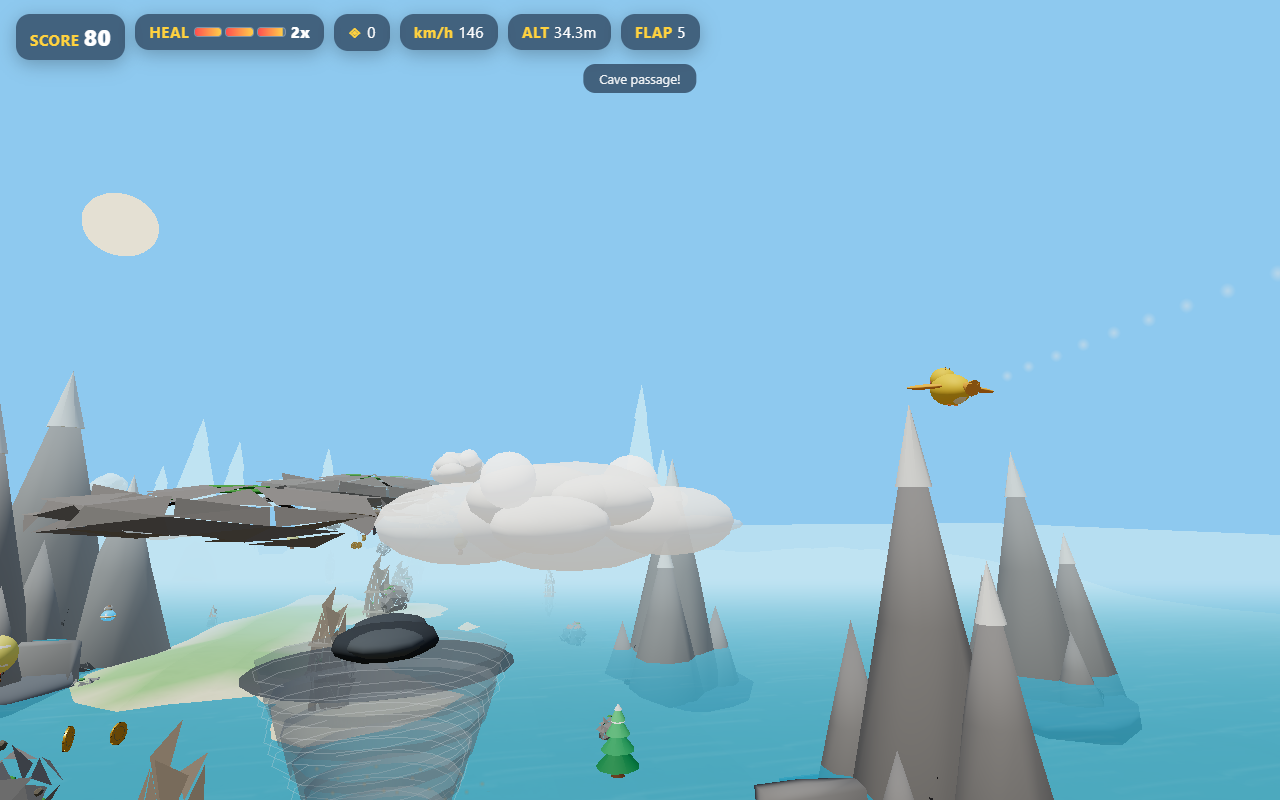
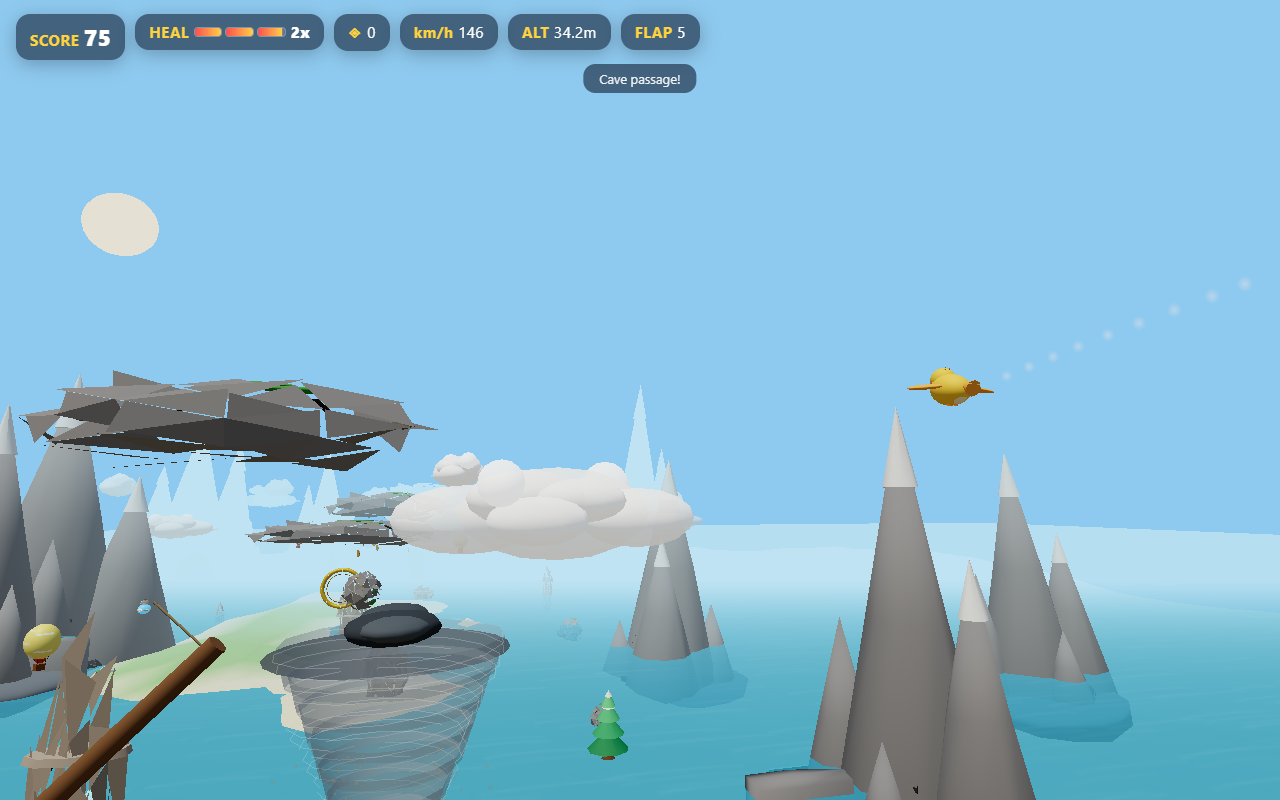
commit3

diff --git a/tests/test-speed-curve.js b/tests/test-speed-curve.js
@@ -1,0 +1,70 @@
+const puppeteer = require('puppeteer-core');
+
+const EDGE = 'C:\\Program Files (x86)\\Microsoft\\Edge\\Application\\msedge.exe';
+
+(async () => {
+  const browser = await puppeteer.launch({
+    executablePath: EDGE,
+    headless: 'new',
+    args: ['--window-size=1280,720', '--mute-audio', '--enable-unsafe-swiftshader'],
+  });
+  const page = await browser.newPage();
+  const errors = [];
+  page.on('pageerror', (e) => errors.push(String(e)));
+  page.on('console', (m) => { if (m.type() === 'error') errors.push(m.text()); });
+  await page.goto('http://localhost:8321/', { waitUntil: 'load', timeout: 60000 });
+  await page.waitForFunction(() => !!(window.__game && window.__game.player), { timeout: 60000 });
+  await page.keyboard.press('Space');
+  await new Promise((r) => setTimeout(r, 100));
+  await page.keyboard.press('Space');
+  await new Promise((r) => setTimeout(r, 100));
+
+  const result = await page.evaluate(() => {
+    try {
+      const g = window.__game;
+      g.noDeath = true;
+      g.boss.nextSpawnDistance = 1e9;
+      g.nextEnemyAt = g.nextTornadoAt = g.nextPotionAt = g.nextPortalAt = 1e9;
+
+      // simulate speed evolution over distance by applying the target directly
+      const samples = [];
+      const D = window.__speedProbe = null;
+      const C = g.constructor;
+      // step the same formula used in _applyDifficulty
+      const speedAt = (dist) => {
+        const c = window.__cfg; return c;
+      };
+      // read values from the running game by simulating distance jumps
+      const out = [];
+      g.startRun();
+      g.state = 2;
+      for (const dist of [0, 500, 2000, 4000, 8000, 16000, 40000]) {
+        g.distance = dist;
+        for (let i = 0; i < 400; i++) {
+          g._applyDifficulty();
+          // emulate fast-forward: speed damp toward target at 60fps steps
+        }
+        out.push({ dist, kmh: Math.round(g.speed * 3.6) });
+      }
+      return { curve: out, cfgMax: Math.round(window.__game ? 0 : 0), speedCfg: out };
+    } catch (e) {
+      return { err: String(e && e.stack || e) };
+    }
+  });
+
+  const curve = result.curve || [];
+  const kmh = curve.map((s) => s.kmh);
+  const checks = {
+    startsReasonable: kmh.length > 0 && kmh[0] >= 100 && kmh[0] <= 130,
+    growsSlowly: curve.length > 2,
+    saturatesNear250: kmh.length > 0 && kmh[kmh.length - 1] >= 247 && kmh[kmh.length - 1] <= 250,
+    neverExceeds250: kmh.every((v) => v <= 250),
+    monotonic: kmh.every((v, i) => i === 0 || v >= kmh[i - 1]),
+    noConsoleErrors: errors.length === 0,
+  };
+  for (const [name, ok] of Object.entries(checks)) console.log((ok ? 'PASS' : 'FAIL') + '  ' + name);
+  console.log(JSON.stringify(curve));
+  if (errors.length) console.log(errors.join('\n'));
+  await browser.close();
+  process.exit(Object.values(checks).every(Boolean) ? 0 : 1);
+})().catch((err) => { console.error(err); process.exit(1); });

diff --git a/src/boss.js b/src/boss.js
@@ -25,7 +25,7 @@ const FEATHER_SPEED = 28;
 const FEATHER_LIFE = 4.5;
 const FEATHER_HIT_SQ = 1.2 * 1.2;
 const MINION_SPEED = 20;
-const MINION_LIFE = 6;
+const MINION_LIFE = 26;
 const TUMBLE_TIME = 2.5;
 const TUMBLE_GRAV = 12;
 const KILL_Y = -8;
@@ -39,7 +39,7 @@ const EGG_FALL = 26;
 const SHOOTER_HOLD_Z = -22;
 const SHOOTER_FIRE_CD = 1.1;
 const BOMBER_DROP_CD = 1.1;
-const MAX_WAVES = 4;
+const SUMMON_CD_MIN = 4.2;
 const TYPE_SPEED = { chaser: 17, speeder: 30, shooter: 14, bomber: 22 };
 const BOLT_POOL_SIZE = 10;
 const BOLT_SPEED = 30;
@@ -237,6 +237,7 @@ export class Boss {
     this._hitFlash = 0;
     this._minionsSpawned = 0;
     this._wavesSpawned = 0;
+    this._summonCd = 0;
   }
 
   reset() {
@@ -271,6 +272,7 @@ export class Boss {
     this._hitFlash = 0;
     this._minionsSpawned = 0;
     this._wavesSpawned = 0;
+    this._summonCd = 0;
   }
 
   maybeSpawn(distance, speedNow) {
@@ -310,6 +312,7 @@ export class Boss {
     for (const b of this.bolts) { b.obj.visible = false; this._boltPool.push(b.obj); }
     this.bolts.length = 0;
     this._wavesSpawned = 0;
+    this._summonCd = 0;
   }
 
   _waveSize() {
@@ -343,6 +346,7 @@ export class Boss {
     this._birdPos = birdPos;
     this._time = t;
     this._invuln = Math.max(0, this._invuln - dt);
+    if (this._summonCd > 0) this._summonCd -= dt;
     this._hitFlash = Math.max(0, this._hitFlash - dt * 3);
     this.inner.scale.setScalar(this._baseScale * (1 + this._hitFlash * 0.13));
 
@@ -441,9 +445,8 @@ export class Boss {
 
   _pickAttack() {
     const wave = this._waveSize();
-    const canSummon = this._wavesSpawned < MAX_WAVES
-      && this._minionPool.length >= Math.min(3, wave)
-      && this._minionsSpawned + 3 <= MINION_POOL_SIZE * MAX_WAVES;
+    const canSummon = this._minionPool.length >= Math.min(3, wave)
+      && (this._summonCd == null || this._summonCd <= 0);
     const chance = this.phase >= 2 ? 0.65 : 0.42;
     if (canSummon && this.rng() < chance) return 'minions';
     return this.rng() < 0.45 ? 'swoop' : 'feathers';
@@ -570,11 +573,10 @@ export class Boss {
 
   _summonMinions() {
     const bird = this._birdPos;
-    if (!bird || this._wavesSpawned >= MAX_WAVES) return;
+    if (!bird) return;
     if (this._time == null) this._time = 0;
     const p = this.group.position;
     const n = this._waveSize();
-    let slot = 0;
     const spread = (i, n) => (n <= 1 ? 0 : (i / (n - 1) - 0.5) * 2) * Math.min(16, 2.5 + n * 1.8);
     const used = new Set();
     const takeObj = () => {
@@ -612,9 +614,9 @@ export class Boss {
         wob: this.rng() * 6.28,
       });
       this._minionsSpawned++;
-      slot++;
     }
     this._wavesSpawned++;
+    this._summonCd = SUMMON_CD_MIN + this.rng() * 2;
   }
 
   _minionsUpdate(dt, birdPos) {

diff --git a/tests/test-performance-boss-arena.js b/tests/test-performance-boss-arena.js
@@ -25,7 +25,7 @@ const sleep = (ms) => new Promise((resolve) => setTimeout(resolve, ms));
     const g = window.__game;
     g.noDeath = true;
     g.obstacles.clearSpan(-1000, 100);
-    g.obstacles._spawnGate(-100);
+    g.obstacles._spawnGate(-60);
     g.enemies.spawn(-80, 'chase', 0);
     g.tornados.spawn(-70);
     g.landmarks._spawnTunnel(-120);
@@ -37,8 +37,7 @@ const sleep = (ms) => new Promise((resolve) => setTimeout(resolve, ms));
     g._scheduleThreats();
     const entered = {
       corridor: g.bossCorridorActive,
-      gates: g.obstacles.gates.length,
-      movers: g.obstacles.movers.length,
+      gatesKept: g.obstacles.gates.length,
       enemies: g.enemies.count,
       tornados: g.tornados.count,
       tunnels: g.landmarks.tunnels.length,
@@ -54,7 +53,7 @@ const sleep = (ms) => new Promise((resolve) => setTimeout(resolve, ms));
       g._scheduleThreats();
     }
     const held = {
-      gates: g.obstacles.gates.length,
+      gatesGone: g.obstacles.gates.length,
       enemies: g.enemies.count,
       tornados: g.tornados.count,
       tunnels: g.landmarks.tunnels.length,
@@ -101,8 +100,8 @@ const sleep = (ms) => new Promise((resolve) => setTimeout(resolve, ms));
   });
 
   const checks = {
-    clearsArena: result.entered.corridor && result.entered.gates === 0 && result.entered.movers === 0 && result.entered.enemies === 0 && result.entered.tornados === 0 && result.entered.tunnels === 0 && !result.entered.portal && result.entered.bossProps === 3,
-    staysClear: result.held.gates === 0 && result.held.enemies === 0 && result.held.tornados === 0 && result.held.tunnels === 0 && !result.held.portal && result.held.cursorFrozen && result.held.bossProps === 3,
+    naturalTransition: result.entered.corridor && result.entered.gatesKept >= 1 && result.entered.enemies === 0 && result.entered.tornados === 0 && result.entered.tunnels === 0 && !result.entered.portal && result.entered.bossProps === 3,
+    ordinaryPaused: result.held.gatesGone === 0 && result.held.enemies === 0 && result.held.tornados === 0 && result.held.tunnels === 0 && !result.held.portal && result.held.cursorFrozen && result.held.bossProps === 3,
     shootingWorks: result.shotDamaged,
     resumesWithoutBurst: !result.resumed.corridor && result.resumed.enemyDelay === 240 && result.resumed.tornadoDelay === 320 && result.resumed.tunnelDelay >= 700 && result.resumed.bossDelay === 2200,
     optimizedPipeline: result.renderRatio <= 1.25 && !result.bloom && result.shadowSize === 512 && result.shadowCasters < result.meshes * 0.2 && result.tornadoDust === 120,

diff --git a/src/obstacles.js b/src/obstacles.js
@@ -120,17 +120,24 @@ export class Obstacles {
   }
 
   _placeBossProp(rec, z, index) {
-    const side = index % 2 ? 1 : -1;
+    const layout = [
+      { side: 1, off: 17.5, y: 15 },
+      { side: -1, off: 19.3, y: 8 },
+      { side: 0, off: 0, y: 5.2 },
+      { side: -1, off: 21.1, y: 17 },
+      { side: 1, off: 18.4, y: 6 },
+    ];
+    const L = layout[index % layout.length];
     rec.z = z;
     rec.prevZ = z;
-    rec.x = side * (17.5 + (index % 3) * 1.8);
-    rec.baseY = index % 2 ? 15 : 8;
-    rec.r = 2.3;
+    rec.x = L.side * L.off;
+    rec.baseY = L.y;
+    rec.r = L.side === 0 ? 1.9 : 2.3;
     rec.hit = false;
     rec.obj.visible = true;
     rec.obj.position.set(rec.x, rec.baseY, z);
     rec.obj.scale.set(2.1, 2.8, 2.1);
-    rec.obj.rotation.set(0.2 * index, index * 1.7, 0.1 * side);
+    rec.obj.rotation.set(0.2 * index, index * 1.7, 0.1 * (L.side || 1));
   }
 
   beginBossArena(birdZ, encounterNumber = 1) {
@@ -190,11 +197,12 @@ export class Obstacles {
     const topBottom = gapY + half;
     const groundY = terrainHeight(0, z);
     const spire = this.models.rockSpire;
+    const monolithX = [0, -9, 9, -6, 6][this.gatesSpawned % 5] * (0.75 + this.rng() * 0.25);
     const bottomH = Math.max(0, bottomTop - groundY + 2);
     if (bottomH > 3) {
       const b = spire.clone(true);
       b.scale.set(4.4, bottomH / 4.1, 2.4);
-      b.position.set(0, bottomTop - bottomH, 0);
+      b.position.set(monolithX, bottomTop - bottomH, 0);
       group.add(b);
     }
     const slab = this.models.rockA.clone(true);

diff --git a/src/game.js b/src/game.js
@@ -374,8 +374,7 @@ class Game {
   _beginBossCorridor() {
     if (this.bossCorridorActive) return;
     this.bossCorridorActive = true;
-    this.obstacles.clearSpan(-Infinity, this.player.pos.z + 70);
-    this.obstacles.spawnZ = this.player.pos.z - 340;
+    this.obstacles.spawnZ = Math.min(this.obstacles.spawnZ, this.player.pos.z - 340);
     this.obstacles.beginBossArena(this.player.pos.z, this.boss.encounterNumber);
     this.enemies.reset();
     this.tornados.reset();
@@ -450,7 +449,8 @@ class Game {
   _applyDifficulty() {
     const D = CFG.difficulty;
     const pd = Math.min(1, this.distance / 6000);
-    this.speed = damp(this.speed, D.speedStart + (D.speedMax - D.speedStart) * pd, 0.5, 0.016);
+    const speedTarget = D.speedMax - (D.speedMax - D.speedStart) * Math.exp(-this.distance / D.speedLogScale);
+    this.speed = damp(this.speed, speedTarget, 0.5, 0.016);
     this.gap = D.gapStart - (D.gapStart - D.gapMin) * pd;
     this.obstacleSpacing = D.spacingStart - (D.spacingStart - D.spacingMin) * pd;
     this.obstacles.setDifficulty(this.gap, this.obstacleSpacing, pd);

diff --git a/tests/test-boss-battle-balance.js b/tests/test-boss-battle-balance.js
@@ -83,7 +83,7 @@ const sleep = (ms) => new Promise((resolve) => setTimeout(resolve, ms));
     guaranteedEnrageWave: result.enrageWave.phase === 2 && result.enrageWave.active > result.entranceWave.active && result.enrageWave.spawned >= 6,
     boundedPool: result.capped.active <= 10 && result.capped.active + result.capped.pool === 10,
     minionsAreShootable: result.shot.minions === result.shot.minionsBefore - 1 && result.shot.hp === result.shot.hpBefore && result.shot.scoreGain >= 10 && result.shot.ballDead,
-    sparseSideHazards: result.props.length >= 3 && result.propsAfter.length === result.props.length && result.props.every((p) => Math.abs(p.x) >= 17.5 && Math.abs(p.x) <= 22.5),
+    sparseSideHazards: result.props.length >= 3 && result.propsAfter.length === result.props.length && result.props.every((p) => Math.abs(p.x) <= 22.5 && (p.x === 0 ? p.r <= 2 : Math.abs(p.x) >= 17)),
     noConsoleErrors: errors.length === 0,
   };
   for (const [name, ok] of Object.entries(checks)) console.log((ok ? 'PASS' : 'FAIL') + '  ' + name);

diff --git a/src/landmarks.js b/src/landmarks.js
@@ -295,15 +295,15 @@ export class Landmarks {
     obj.rotation.set(0, this.rng() < 0.5 ? 0 : Math.PI, 0);
     obj.scale.setScalar(1);
     this.tunnels.push({ obj, z, prevZ: z, passed: false, crashed: false });
-    const z0 = z - TUN_HALF - 10;
-    const z1 = z + TUN_HALF + 10;
+    const z0 = z - TUN_HALF - 18;
+    const z1 = z + TUN_HALF + 18;
     if (this.hooks && typeof this.hooks.onClearSpan === 'function') this.hooks.onClearSpan(z0, z1);
   }
 
   blockedAt(z) {
     for (let i = 0; i < this.tunnels.length; i++) {
       const it = this.tunnels[i];
-      if (z >= it.z - TUN_HALF - 10 && z <= it.z + TUN_HALF + 10) return true;
+      if (z >= it.z - TUN_HALF - 18 && z <= it.z + TUN_HALF + 18) return true;
     }
     return false;
   }

diff --git a/src/player.js b/src/player.js
@@ -4,7 +4,9 @@ import { CFG } from './config.js';
 export function flapImpulseForLevel(level, worldSpeed = CFG.difficulty.speedStart) {
   const L = Math.min(9, Math.max(1, level | 0));
   const base = CFG.bird.flapImpulse * (0.5 + 0.125 * (L - 1));
-  const calib = 1 + (Math.max(34, Math.min(82, worldSpeed)) - 34) / 48 * CFG.bird.flapSpeedCalib;
+  const D = CFG.difficulty;
+  const w = Math.max(D.speedStart, Math.min(D.speedMax, worldSpeed));
+  const calib = 1 + (w - D.speedStart) / (D.speedMax - D.speedStart) * CFG.bird.flapSpeedCalib;
   return base * calib;
 }
 

diff --git a/src/config.js b/src/config.js
@@ -11,7 +11,7 @@ export const CFG = {
     gravity: -15.5,
     flapImpulse: 11.2,
     flapLevelDefault: 5,
-    flapSpeedCalib: 0.22,
+    flapSpeedCalib: 0.25,
     diveImpulse: -11,
     maxDiveSpeed: -24,
     maxFallSpeed: -18,
@@ -31,8 +31,8 @@ export const CFG = {
   },
   difficulty: {
     speedStart: 34,
-    speedMax: 82,
-    speedRamp: 0.65,
+    speedMax: 250 / 3.6,
+    speedLogScale: 4000,
     gapStart: 15,
     gapMin: 8.2,
     gapRamp: 0.18,

diff --git a/README.md b/README.md
@@ -47,7 +47,8 @@ then open http://localhost:8321
 - `Space` fires energy balls (shots always outpace the world).
 - **Three villain types**: red chasers, fast blue weavers, heavy black bombers. Contact costs one healing charge; blasting them scores 15/20/25.
 - **Boss: MEGA BEAK** at 1400m and every ~2200m after: swoops, fires feather bullets, and launches angry-bird formations that grow with every encounter (3 → 10 birds). Each wave mixes four identifiable types: **red chasers** that track you, **blue shooters** that hold near the fight and snipe fast cyan bolts, **yellow speeders** that zigzag fast, and **black bombers** that close in over your head and drop egg-bombs you must dodge or shoot. Minions are shootable (+10, +15 shooters/speeders, +20 bombers); your energy balls remove one point from MEGA BEAK's visible strength bar; defeat it for +120.
-- When MEGA BEAK arrives, the game opens a dedicated **combat corridor**: ordinary clutter is cleared, but three widely spaced side-lane rock spires cycle through as real hazards without blocking the central firing line. Boss bullets/minions, powerups and player shooting remain active.
+- When MEGA BEAK arrives, the game opens a **combat corridor** with a realistic transition: nothing on screen vanishes -- existing gates finish scrolling past while only *new* spawning pauses. Three-to-five recycled arena rocks (mixed left/right/low-middle placements) add challenge without blocking the firing line. Ordinary gates/enemies/tornados/tunnels/portals resume after defeat.
+- Waves keep escalating for the **entire fight** (no cap), spawning every 4-6s while a formation has room; minions persist until shot down, kamikaze-hit, or overtaken behind you.
 
 ### Healing
 - You begin with **3x healing charges**. A collision or enemy/boss attack removes one charge and the run continues; a short recovery window prevents one impact from draining multiple charges.
@@ -62,13 +63,14 @@ then open http://localhost:8321
 - Gates (gaps tighten 15→8.2), gold rings, coin arcs, floating boulders.
 
 ### Caves & mountains
-- **Cave tunnels** wrap the flight line every 700-1200m: fly the centreline for +10 and a rumbling hum; clip the walls and it's over.
+- **Cave tunnels** wrap the flight line every 700-1200m: fly the centreline for +10 and a rumbling hum; clip the walls and it's over. Gates keep clear of both tunnel mouths so entrances stay readable.
 - **Tunnels are obstacle-free**: gates, movers and coin arcs are never spawned inside a cave span (existing ones are swept clear when a cave appears) -- the walls are the challenge.
 - **Snow-capped mountain ranges** use varied silhouettes, scales and depth-dependent parallax; waterfalls flank the valley, bird flocks cross overhead, and ground mist drifts through.
 - Terrain uses slope-aware grass, exposed-rock strata, deterministic multi-scale surface texture, and subtly animated wave texture on the water.
 
 ### Endless & escalating
 - The world **never empties**: a scroll-synced spawn corridor keeps gates/movers flowing forever (verified to 13km+). Spacing 55→33, gaps 15→8.2, mover density and villain waves rise with distance, storms intensify. Milestone toasts announce the escalation.
+- **Speed saturates at 250 km/h**: world speed follows a logarithmic-style exponential-saturation curve from ~122 km/h, rising fast early (~171 at 2km, ~202 at 4km) and easing toward the 250 cap (247 by 16km) so late-game pace plateaus instead of exploding. Flap power auto-calibrates to this curve.
 
 ### Performance
 - The normal render path is optimized for integrated and mobile GPUs: capped pixel ratio, direct tone-mapped rendering without depth-of-field/fullscreen bloom, selective 512px shadows, scaled tornado/rain particles, and cached HUD writes.
@@ -117,6 +119,7 @@ node tests/test-flight-ui.js     # altitude HUD, 1-9 flap power, dive, tornado a
 node tests/test-health-boss-visuals.js # 3x healing, regeneration, boss damage/HUD, tornado inflow, environment detail
 node tests/test-boss-waves.js     # wave scaling 3->10, 4 minion types/behaviors/colors, bolts aim at player, bomber egg runs (12/12)
 node tests/test-performance-boss-arena.js # optimized pipeline + clear, resumable boss combat corridor
+node tests/test-speed-curve.js    # speed saturates log-style at 250 km/h, never exceeds (6/6)
 node tests/test-headless.js      # menu/play/death/restart regression
 ```
 
